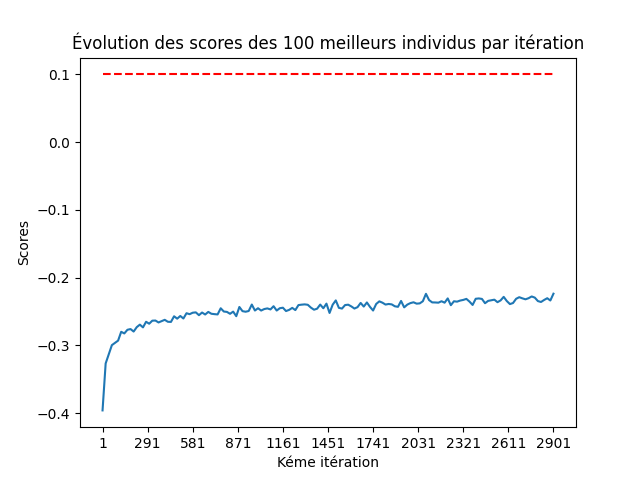
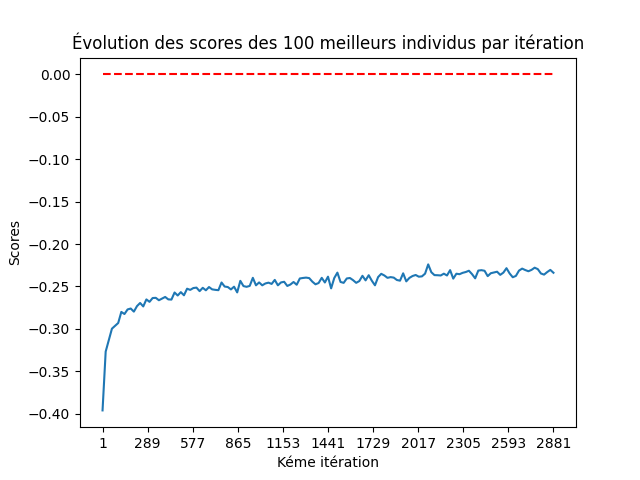
correction

diff --git a/afficheGraphique.py b/afficheGraphique.py
@@ -7,8 +7,7 @@ import numpy as np
 
 listMeanAllReward = []  # Liste pour stocker les moyennes des scores
 
-chemmin="./resultat/conjecture2/Conjectur2_n_7_m_6/best_100_rewards_2.txt"
-
+chemmin="./resultat/conjecture3/conjecture3_n_17_m_115/best_100_rewards_448.txt"
 with open(chemmin, 'r') as file:
     for line in file:
         if line.strip():  # Vérifie si la ligne n'est pas vide
@@ -26,7 +25,7 @@ listMeanAllReward.pop(-1)  # Supprimer le premier élément (0.0) de la liste
 # Permet de créer un graphique de l'évolution des scores et de l'enregistrer
 iterations = list(range(1, len(listMeanAllReward) * 20, 20))  
 plt.plot(iterations, listMeanAllReward)  
-plt.plot([1, iterations[-1]], [0.1, 0.1], color='r', linestyle='--')  
+plt.plot([1, iterations[-1]], [0, 0], color='r', linestyle='--')  
 if len(iterations) <= 10:
     # Si moins de 10 points, afficher tous les points
     x_ticks = iterations
